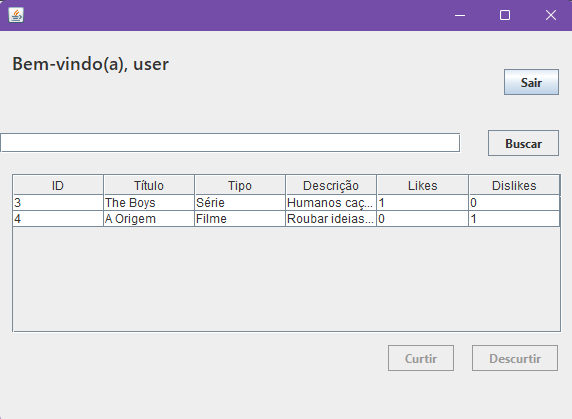
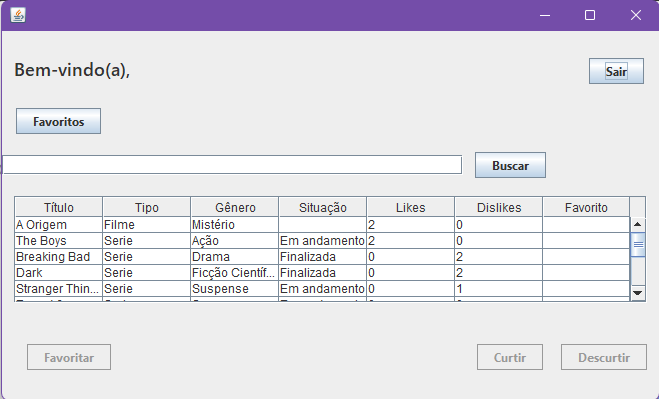
Ajeitando README

diff --git a/src/main/java/controller/FavoritesControl.java b/src/main/java/controller/FavoritesControl.java
@@ -10,12 +10,12 @@ import dao.PlaylistDAO;
 import model.Video;
 import model.Films;
 import model.Series;
+import model.Playlist;
 import java.sql.Connection;
 import java.sql.ResultSet;
 import java.sql.SQLException;
 import javax.swing.JOptionPane;
 import javax.swing.table.DefaultTableModel;
-import model.Playlist;
 import view.Favorites;
 
 /**

diff --git a/src/main/java/model/Playlist.java b/src/main/java/model/Playlist.java
@@ -13,8 +13,9 @@ public class Playlist {
 
     private int id;
     private String name;
+    //Usuário dono da playlist
     private User user;
-
+    //Composição playlists para Vídeo
     private ArrayList<Video> videos;
 
     public Playlist(int id, String name, User user) {

diff --git a/README.md b/README.md
@@ -1,22 +1,167 @@
 # Java Streaming
 
-![Status](https://img.shields.io/badge/STATUS-EM%20DESENVOLVIMENTO-yellow?style=for-the-badge)
+![Status](https://img.shields.io/badge/STATUS-CONCLUÍDO-green?style=for-the-badge)
 ![Java](https://img.shields.io/badge/Java-17-orange?style=for-the-badge&logo=openjdk)
 ![PostgreSQL](https://img.shields.io/badge/PostgreSQL-16-blue?style=for-the-badge&logo=postgresql)
+![MVC](https://img.shields.io/badge/Arquitetura-MVC-darkgreen?style=for-the-badge)
+![POO](https://img.shields.io/badge/Paradigma-POO-purple?style=for-the-badge)
 
-## 💻 Sobre o Projeto
+---
 
-O **Java Streaming** é uma aplicação desktop desenvolvida em Java com arquitetura MVC e persistência em PostgreSQL. O projeto simula uma plataforma de streaming, permitindo autenticação de usuários, busca dinâmica de conteúdos e interações individuais através de likes e dislikes.
+# 💻 Sobre o Projeto
 
-O sistema foi estruturado utilizando conceitos avançados de Programação Orientada a Objetos, modelagem UML e separação em camadas (Model, View, Controller e DAO).
+O **Java Streaming** é uma aplicação desktop desenvolvida em Java utilizando Java Swing, arquitetura MVC e persistência em PostgreSQL.
+
+O sistema simula uma plataforma de streaming, permitindo:
+
+- autenticação de usuários;
+- cadastro de contas;
+- busca dinâmica de vídeos;
+- sistema de likes e dislikes;
+- gerenciamento de favoritos;
+- criação de playlists personalizadas.
+
+O projeto foi desenvolvido com foco em:
+
+- Programação Orientada a Objetos;
+- separação de responsabilidades;
+- modelagem UML;
+- persistência relacional;
+- interação entre Java e banco de dados PostgreSQL.
+
+---
+
+# 🚀 Funcionalidades
+
+✔ Cadastro de usuários  
+✔ Login integrado ao PostgreSQL  
+✔ Busca dinâmica de vídeos  
+✔ Sistema de likes e dislikes  
+✔ Sistema de favoritos  
+✔ Criação e gerenciamento de playlists  
+✔ Adição e remoção de vídeos em playlists  
+✔ Controle individual de reações por usuário  
+✔ Interface gráfica com JTable interativa  
+
+---
+
+# 🧠 Conceitos Aplicados
+
+Durante o desenvolvimento foram aplicados conceitos importantes de:
+
+- Programação Orientada a Objetos;
+- Herança;
+- Polimorfismo;
+- Classes Abstratas;
+- Interfaces;
+- Arquitetura MVC;
+- DAO (Data Access Object);
+- Modelagem Relacional;
+- SQL com PostgreSQL.
+
+---
+
+# 🏗 Arquitetura do Sistema
+
+O sistema foi estruturado em camadas seguindo o padrão MVC.
+
+| Camada | Responsabilidade |
+| :--- | :--- |
+| **Model** | Representação das entidades do sistema |
+| **View** | Interface gráfica em Java Swing |
+| **Controller** | Regras de negócio e controle da interface |
+| **DAO** | Persistência e comunicação com PostgreSQL |
+
+---
+
+# 🎬 Sistema de Vídeos
+
+O sistema utiliza uma classe abstrata `Video`, responsável por representar características comuns entre filmes e séries.
+
+As subclasses:
+
+- `Films`
+- `Series`
+
+especializam o comportamento de cada tipo de conteúdo utilizando herança e polimorfismo.
+
+A classe `Series` também implementa a interface `Situation`, responsável por representar o estado da série, como:
+
+- Em andamento
+- Finalizada
+
+---
+
+# ❤ Sistema de Reações
+
+O sistema de reações foi inspirado em plataformas reais como YouTube.
+
+Cada usuário pode:
+
+- curtir;
+- descurtir;
+- remover reação;
+- alternar entre like e dislike.
+
+O controle é realizado através de:
+
+- restrição única no banco;
+- consultas SQL com `ON CONFLICT`;
+- lógica de alternância implementada nos DAOs.
+
+Isso garante que:
+
+✔ um usuário tenha apenas uma reação por vídeo;  
+✔ não seja possível possuir like e dislike simultaneamente.  
+
+---
+
+# 📂 Sistema de Playlists
+
+O sistema permite que cada usuário crie playlists personalizadas e organize vídeos.
+
+A modelagem foi construída utilizando:
+
+- relacionamento entre usuários e playlists;
+- tabela intermediária para vídeos da playlist;
+- controle de posição dos vídeos.
+
+A estrutura orientada a objetos foi representada pela classe `Playlist`, contendo:
+
+- usuário proprietário;
+- coleção de vídeos (`ArrayList<Video>`).
+
+---
+
+# 🗄 Banco de Dados
+
+O PostgreSQL foi utilizado para persistência dos dados da aplicação.
+
+O sistema utiliza tabelas relacionais para:
+
+- usuários;
+- vídeos;
+- favoritos;
+- reações;
+- playlists;
+- associação entre playlists e vídeos.
+
+Além disso, foram utilizados:
+
+- JOINs;
+- GROUP BY;
+- ORDER BY;
+- COUNT;
+- subconsultas;
+- restrições UNIQUE.
 
 ---
 
 # 📸 Tour pelo Sistema
 
-## 1. Tela de Login
+## 🔐 Tela de Login
 
-Sistema de autenticação integrado ao PostgreSQL com validação de credenciais
+Sistema de autenticação integrado ao PostgreSQL.
 
 <div align="center">
   <img src="./assets/login.png" alt="Tela de Login" width="100%">
@@ -24,9 +169,11 @@ Sistema de autenticação integrado ao PostgreSQL com validação de credenciais
 
 <br>
 
-## 2. Cadastro de Usuários
+---
 
-Tela responsável pela criação de contas com persistência automática no banco de dados.
+## 📝 Cadastro de Usuários
+
+Tela responsável pelo cadastro de novos usuários com validação de campos obrigatórios.
 
 <div align="center">
   <img src="./assets/signup.png" alt="Tela de Cadastro" width="100%">
@@ -34,9 +181,16 @@ Tela responsável pela criação de contas com persistência automática no banc
 
 <br>
 
-## 3. Home do Sistema
+---
 
-Interface principal com busca dinâmica de vídeos com Jtable interativa.
+## 🏠 Home do Sistema
+
+Tela principal contendo:
+
+- busca dinâmica;
+- tabela interativa;
+- likes/dislikes;
+- favoritos.
 
 <div align="center">
   <img src="./assets/home.png" alt="Home do Sistema" width="100%">
@@ -44,6 +198,19 @@ Interface principal com busca dinâmica de vídeos com Jtable interativa.
 
 <br>
 
+---
+
+## ❤ Favoritos e Playlists
+
+Gerenciamento completo de favoritos e listas personalizadas.
+
+<div align="center">
+  <img src="./assets/favorites.png" alt="Favoritos" width="100%">
+</div>
+
+<br>
+
+---
 
 # 🛠 Tecnologias Utilizadas
 
@@ -53,22 +220,72 @@ Interface principal com busca dinâmica de vídeos com Jtable interativa.
 | **Interface Gráfica** | Java Swing |
 | **Banco de Dados** | PostgreSQL |
 | **Arquitetura** | MVC + DAO |
-| **Paradigmas** | Programação Orientada a Objetos |
+| **Paradigma** | Programação Orientada a Objetos |
 | **IDE** | Apache NetBeans |
+| **Controle de Versão** | Git + GitHub |
 
 ---
 
-# 💡 Aprendizados e Desafios
+# ⚡ Desafios do Projeto
 
-Durante o desenvolvimento, os principais desafios superados foram:
+Durante o desenvolvimento, alguns dos principais desafios enfrentados foram:
 
 - Estruturar corretamente a arquitetura MVC separando responsabilidades entre View, Controller, DAO e Model.
-- Implementar persistência relacional utilizando PostgreSQL e consultas SQL.
-- Desenvolver sistema de reações inspirado em plataformas reais como YouTube.
+- Integrar Java Swing com persistência PostgreSQL utilizando JDBC.
+- Modelar relacionamentos relacionais entre usuários, vídeos e playlists.
+- Implementar sistema de reações inspirado em plataformas reais.
+- Controlar favoritos e playlists utilizando tabelas intermediárias.
+- Aplicar conceitos de Programação Orientada a Objetos na estrutura do sistema.
+- Organizar a navegação entre telas mantendo a separação de responsabilidades.
 
 ---
 
-# 📞 Contato
+# 📚 Aprendizados
+
+O projeto proporcionou experiência prática em:
+
+- arquitetura MVC;
+- persistência com PostgreSQL;
+- modelagem relacional;
+- Java Swing;
+- orientação a objetos;
+- estruturação de sistemas desktop.
+
+Além disso, o desenvolvimento reforçou conceitos importantes de organização de código, separação de camadas e manutenção de software.
+
+---
+
+# ▶ Como Executar
+
+## Pré-requisitos
+
+- Java 17
+- PostgreSQL
+- Apache NetBeans
+
+---
+
+## Passos
+
+1. Clone o repositório:
+
+```bash
+git clone https://github.com/seuusuario/java-streaming.git
+```
+
+2. Configure o banco PostgreSQL.
+
+3. Execute os scripts SQL do projeto.
+
+4. Abra o projeto no NetBeans.
+
+5. Execute a aplicação.
+
+---
+
+# 👨💻 Autor
+
+Ricardo Ferreira
 
 LinkedIn:  
 https://www.linkedin.com/in/ricardo-ferreira-8b5145371
